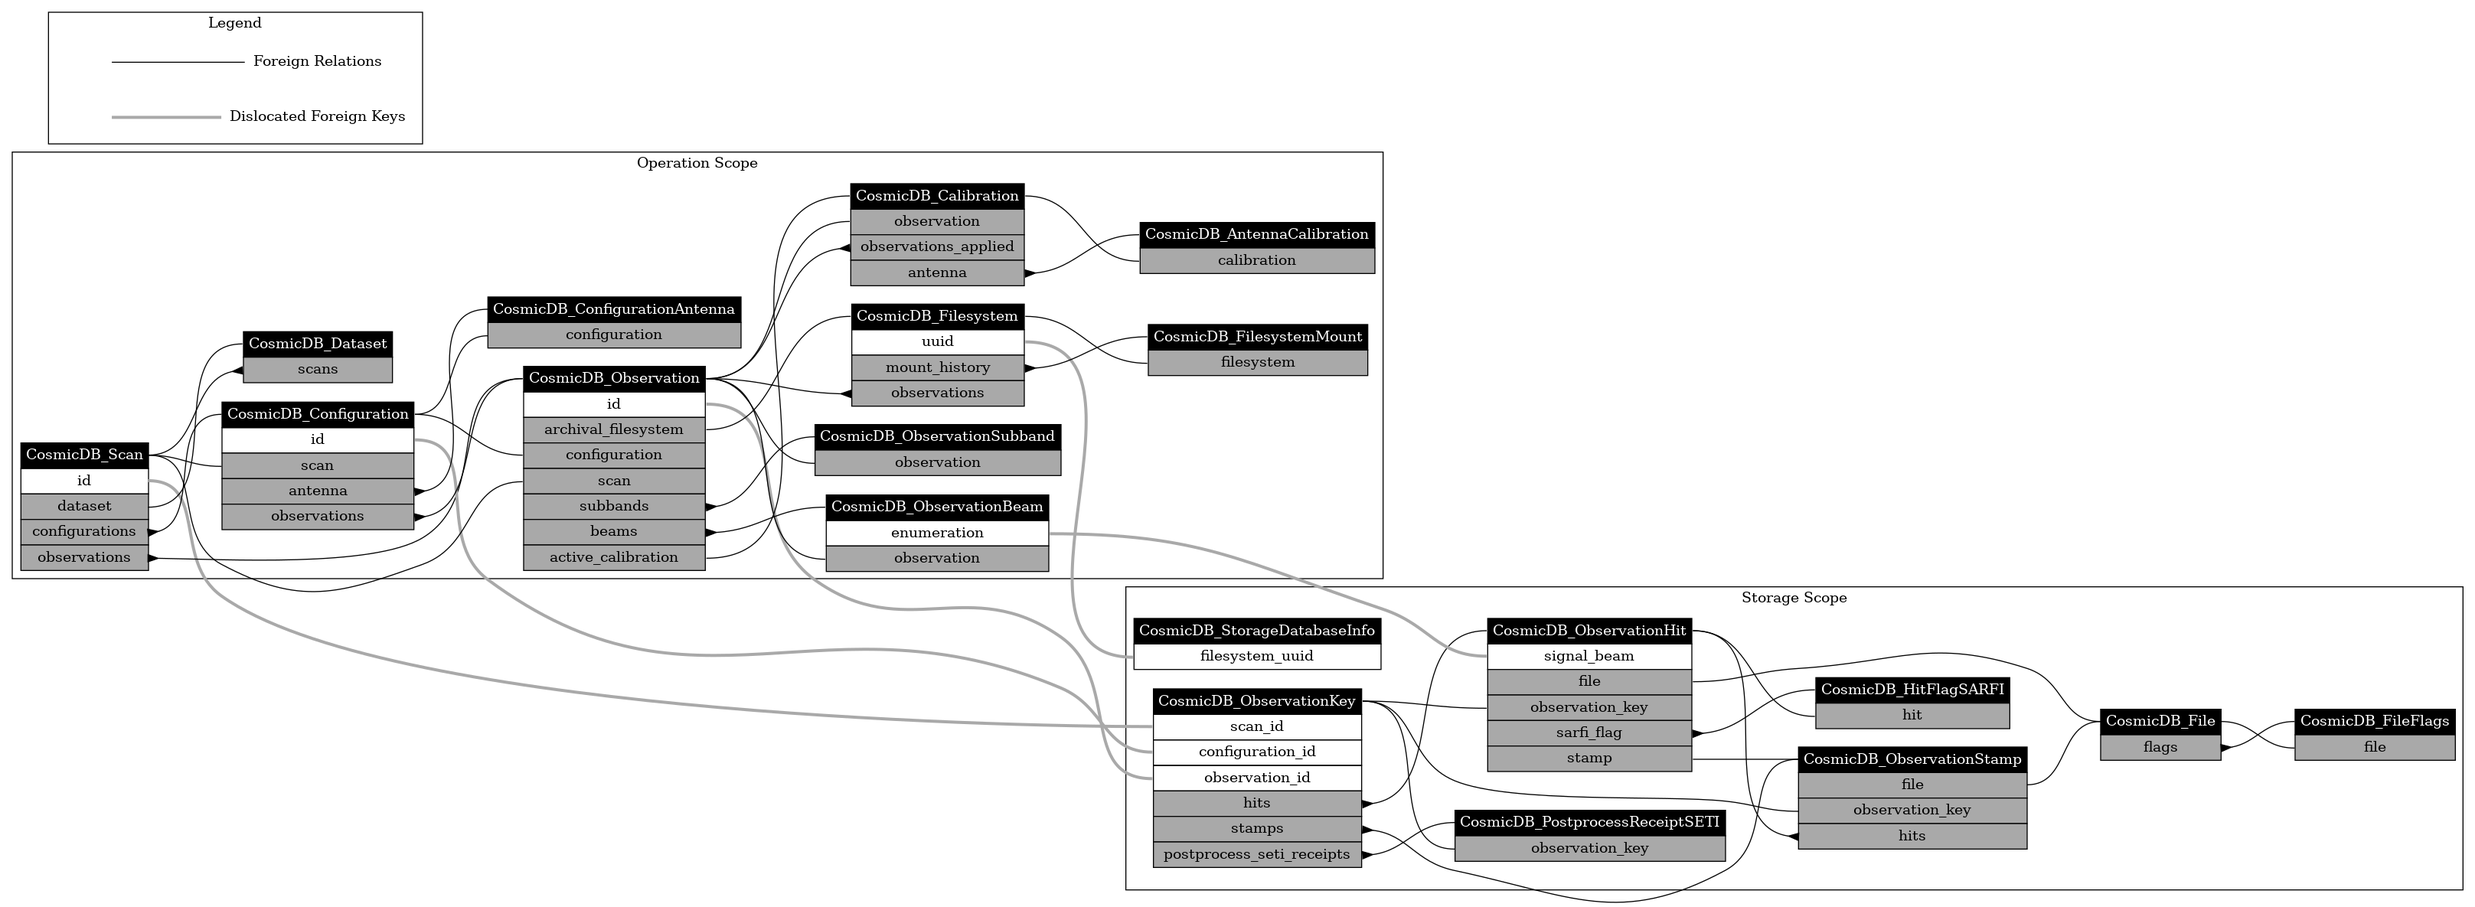
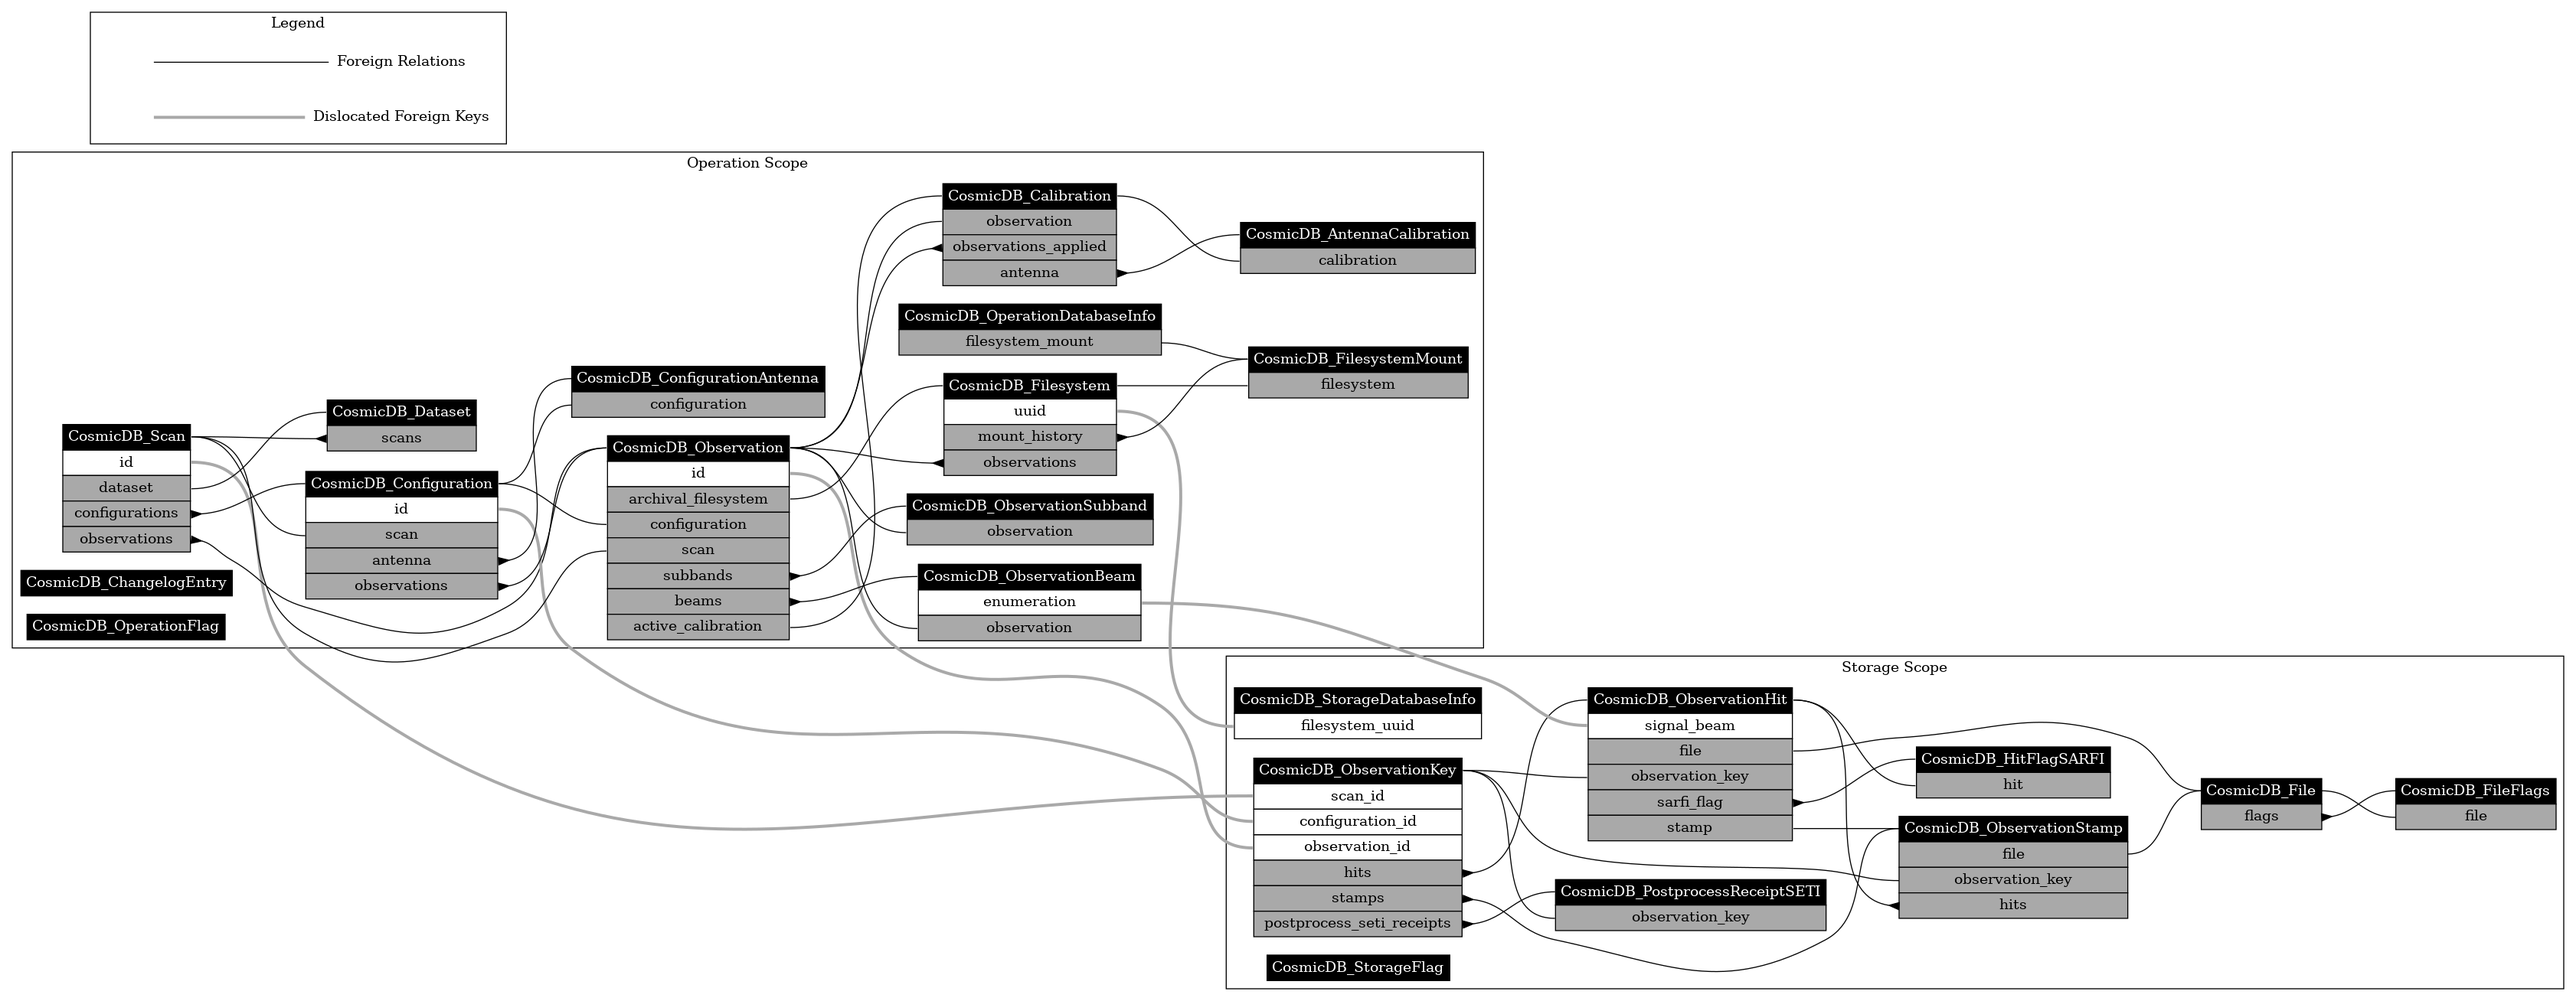
^= docs

diff --git a/docs/tables.md b/docs/tables.md
@@ -1,3 +1,12 @@
+# Table `cosmic_operation_flag`
+
+Class [`cosmic_database.entities.CosmicDB_OperationFlag`](./classes.md#class-CosmicDB_OperationFlag)
+
+Column | Type | Primary Key | Foreign Key(s) | Indexed | Nullable | Unique
+-|-|-|-|-|-|-
+id | INTEGER | X |  |  |  | 
+details | TEXT |  |  |  |  | 
+
 # Table `cosmic_filesystem`
 
 Class [`cosmic_database.entities.CosmicDB_Filesystem`](./classes.md#class-CosmicDB_Filesystem)
@@ -20,6 +29,17 @@ host_mountpoint | VARCHAR(255) |  |  |  |  |
 start | DATETIME |  |  | X |  | 
 end | DATETIME |  |  |  | X | 
 network_uri | VARCHAR(255) |  |  |  | X | 
+
+# Table `cosmic_operation_database_info`
+
+Class [`cosmic_database.entities.CosmicDB_OperationDatabaseInfo`](./classes.md#class-CosmicDB_OperationDatabaseInfo)
+
+Column | Type | Primary Key | Foreign Key(s) | Indexed | Nullable | Unique
+-|-|-|-|-|-|-
+id | INTEGER | X |  |  |  | 
+start | DATETIME |  |  | X |  | 
+end | DATETIME |  |  |  | X | 
+archival_filesystem_mount_id | INTEGER |  | [cosmic_filesystem_mount](#table-cosmic_filesystem_mount).id |  |  | 
 
 # Table `cosmic_dataset`
 
@@ -119,6 +139,7 @@ node_uri | VARCHAR(255) |  |  |  |  |
 subband_length | INTEGER |  |  |  |  | 
 subband_frequency_lower_MHz | DOUBLE |  |  |  |  | 
 subband_bandwidth_MHz | DOUBLE |  |  |  |  | 
+flag | INTEGER |  | [cosmic_operation_flag](#table-cosmic_operation_flag).id |  | X | 
 
 # Table `cosmic_observation_beam`
 
@@ -133,6 +154,15 @@ dec_radians | DOUBLE |  |  | X |  |
 source | VARCHAR(80) |  |  | X |  | 
 start | DATETIME |  |  | X |  | 
 end | DATETIME |  |  |  |  | 
+
+# Table `cosmic_storage_flag`
+
+Class [`cosmic_database.entities.CosmicDB_StorageFlag`](./classes.md#class-CosmicDB_StorageFlag)
+
+Column | Type | Primary Key | Foreign Key(s) | Indexed | Nullable | Unique
+-|-|-|-|-|-|-
+id | INTEGER | X |  |  |  | 
+details | TEXT |  |  |  |  | 
 
 # Table `cosmic_database_info`
 
@@ -213,6 +243,7 @@ signal_coarse_channel | INTEGER |  |  |  |  |
 signal_num_timesteps | INTEGER |  |  |  |  | 
 signal_power | DOUBLE |  |  |  |  | 
 signal_incoherent_power | DOUBLE |  |  |  |  | 
+flag | INTEGER |  | [cosmic_storage_flag](#table-cosmic_storage_flag).id |  | X | 
 
 # Table `cosmic_observation_hit`
 
@@ -249,6 +280,7 @@ num_timesteps | INTEGER |  |  |  |  |
 num_channels | INTEGER |  |  |  |  | 
 coarse_channel | INTEGER |  |  |  |  | 
 start_channel | INTEGER |  |  |  |  | 
+flag | INTEGER |  | [cosmic_storage_flag](#table-cosmic_storage_flag).id |  | X | 
 
 # Table `cosmic_hit_flag_sarfi`
 
@@ -275,3 +307,12 @@ sarfi_seive_duration_s | DOUBLE |  |  |  |  |
 move_duration_s | DOUBLE |  |  |  |  | 
 hit_count | INTEGER |  |  |  |  | 
 stamp_count | INTEGER |  |  |  |  | 
+
+# Table `cosmic_changelog_entry`
+
+Class [`cosmic_database.entities.CosmicDB_ChangelogEntry`](./classes.md#class-CosmicDB_ChangelogEntry)
+
+Column | Type | Primary Key | Foreign Key(s) | Indexed | Nullable | Unique
+-|-|-|-|-|-|-
+timestamp | DATETIME | X |  | X |  | 
+description | TEXT |  |  |  |  | 

diff --git a/docs/classes.md b/docs/classes.md
@@ -1,13 +1,24 @@
 # Operation Database Scope
 ![Operation Class Diagram](./classes_Operation.png)
 
+## Class `CosmicDB_OperationDatabaseInfo`
+
+Table [`cosmic_operation_database_info`](./tables.md#table-cosmic_operation_database_info)
+
+Attribute | Type
+-|-
+archival_filesystem_mount_id | `str`
+end | `int`
+id | `datetime`
+start | `int`
+filesystem_mount | [CosmicDB_FilesystemMount](#class-cosmicdb_filesystemmount)
 ## Class `CosmicDB_Dataset`
 
 Table [`cosmic_dataset`](./tables.md#table-cosmic_dataset)
 
 Attribute | Type
 -|-
-id | `int`
+id | `datetime`
 scans | list([CosmicDB_Scan](#class-cosmicdb_scan))
 ## Class `CosmicDB_Scan`
 
@@ -101,6 +112,7 @@ Table [`cosmic_observation_subband`](./tables.md#table-cosmic_observation_subban
 
 Attribute | Type
 -|-
+flag | `int`
 node_uri | `int`
 observation_id | `str`
 percentage_recorded | `int`
@@ -149,6 +161,22 @@ id | `str`
 network_uri | `int`
 start | `str`
 filesystem | [CosmicDB_Filesystem](#class-cosmicdb_filesystem)
+## Class `CosmicDB_ChangelogEntry`
+
+Table [`cosmic_changelog_entry`](./tables.md#table-cosmic_changelog_entry)
+
+Attribute | Type
+-|-
+description | `datetime`
+timestamp | `str`
+## Class `CosmicDB_OperationFlag`
+
+Table [`cosmic_operation_flag`](./tables.md#table-cosmic_operation_flag)
+
+Attribute | Type
+-|-
+details | `datetime`
+id | `str`
 # Storage Database Scope
 ![Storage Class Diagram](./classes_Storage.png)
 
@@ -158,7 +186,7 @@ Table [`cosmic_database_info`](./tables.md#table-cosmic_database_info)
 
 Attribute | Type
 -|-
-filesystem_uuid | `datetime`
+filesystem_uuid | `int`
 id | `str`
 ## Class `CosmicDB_ObservationKey`
 
@@ -205,6 +233,7 @@ fch1_mhz | `float`
 fft_size | `float`
 file_id | `int`
 file_local_enumeration | `int`
+flag | `int`
 foff_mhz | `int`
 id | `float`
 num_antennas | `int`
@@ -246,6 +275,7 @@ dec_degrees | `int`
 fch1_mhz | `float`
 file_id | `float`
 file_local_enumeration | `int`
+flag | `int`
 foff_mhz | `int`
 id | `float`
 num_channels | `int`
@@ -300,3 +330,11 @@ stamp_count | `float`
 subband_offset | `int`
 tuning | `int`
 observation_key | [CosmicDB_ObservationKey](#class-cosmicdb_observationkey)
+## Class `CosmicDB_StorageFlag`
+
+Table [`cosmic_storage_flag`](./tables.md#table-cosmic_storage_flag)
+
+Attribute | Type
+-|-
+details | `str`
+id | `str`
